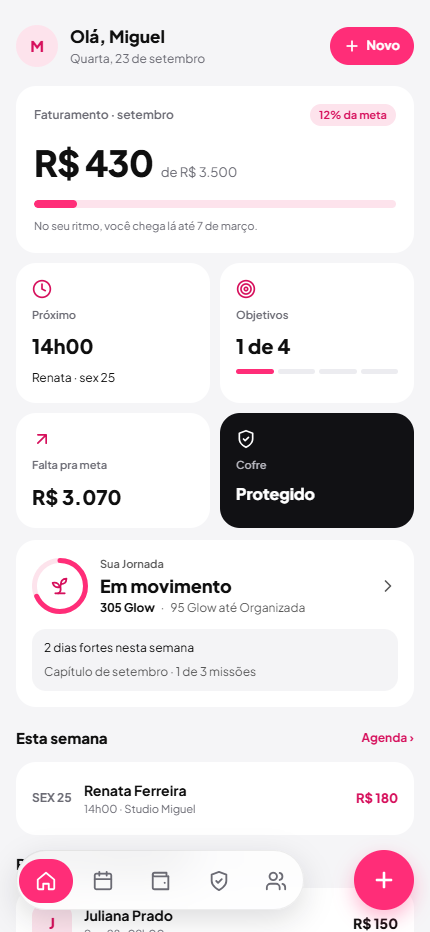
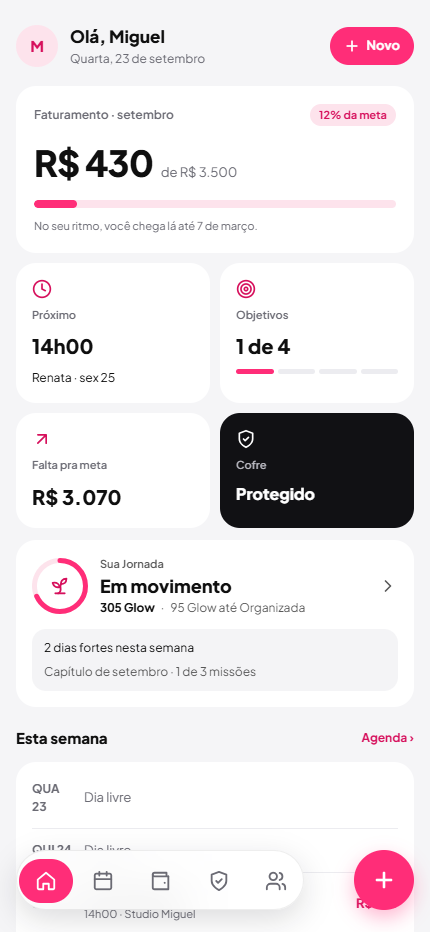
revert(inicio): "Esta semana" volta ao mockup, com "Dia livre"
Decisão do operador na #206: a "Esta semana" mostra os dias de hoje até
domingo como no mockup normativo, com os atendimentos em cada dia e
"Dia livre" nas outras linhas. A linha "Dia livre" é conteúdo do mockup
(SÁB 26), não algo a remover.

Desfaz 5c5b5bf (diasComAtendimentoDaSemana e "Semana livre"); a regra
volta a ser a de antes (diasRestantesDaSemana).

diff --git a/components/home/SemanaSection.tsx b/components/home/SemanaSection.tsx
@@ -5,7 +5,7 @@ import { formatBRL } from "@/lib/finance";
 import type { Job } from "@/lib/types";
 import { InicioCard } from "./InicioCard";
 import {
-  diasComAtendimentoDaSemana,
+  diasRestantesDaSemana,
   formatHora,
   rotuloDiaCurto,
 } from "./inicioAgenda";
@@ -18,13 +18,12 @@ interface Props {
 
 /**
  * Seção "Esta semana" da Início (Jornada J02, mockup
- * `5-telas-8-temas-claro-escuro.html`): de hoje até domingo, só os dias
- * com atendimento, um atendimento por linha. Semana sem nenhum atendimento
- * mostra uma linha "Semana livre". O atalho
+ * `5-telas-8-temas-claro-escuro.html`): de hoje até domingo, um dia por
+ * linha; dia sem atendimento aparece como "Dia livre". O atalho
  * "Agenda ›" leva à aba Agenda.
  */
 export function SemanaSection({ jobs, onGoToAgenda }: Props) {
-  const dias = diasComAtendimentoDaSemana(jobs);
+  const dias = diasRestantesDaSemana(jobs);
   // Valores do mockup normativo (tela Início, "Esta semana").
   const linhaStyle = {
     display: "flex",
@@ -64,13 +63,6 @@ export function SemanaSection({ jobs, onGoToAgenda }: Props) {
       </div>
 
       <InicioCard style={{ padding: "6px 16px" }}>
-        {dias.length === 0 && (
-          <div
-            style={{ ...linhaStyle, fontSize: "13px", color: "var(--t-mut)" }}
-          >
-            Semana livre
-          </div>
-        )}
         {dias.map((dia, i) => {
           const borda = i < dias.length - 1 ? BORDA : undefined;
           const rotulo = (
@@ -86,6 +78,23 @@ export function SemanaSection({ jobs, onGoToAgenda }: Props) {
               {rotuloDiaCurto(dia.data)}
             </span>
           );
+
+          if (dia.jobs.length === 0) {
+            return (
+              <div key={dia.data} style={{ ...linhaStyle, ...borda }}>
+                {rotulo}
+                <div
+                  style={{
+                    flexGrow: 1,
+                    fontSize: "13px",
+                    color: "var(--t-mut)",
+                  }}
+                >
+                  Dia livre
+                </div>
+              </div>
+            );
+          }
 
           return (
             <Fragment key={dia.data}>

diff --git a/tests/wiring/inicio-visual-jornada.test.ts b/tests/wiring/inicio-visual-jornada.test.ts
@@ -4,7 +4,6 @@ import { join } from "node:path";
 import type { Job } from "@/lib/types";
 import {
   atendimentosDepoisDaSemana,
-  diasComAtendimentoDaSemana,
   diasRestantesDaSemana,
   fimDaSemana,
   formatHora,
@@ -104,11 +103,7 @@ describe("J02 — os dois títulos de seção do mockup", () => {
     const src = read("components/home/SemanaSection.tsx");
     expect(src).toMatch(/<h2[^>]*>\s*Esta semana\s*<\/h2>/);
     expect(src).toMatch(/onClick=\{onGoToAgenda\}[\s\S]{0,300}Agenda ›/);
-    // Pixel (decisão do operador): só os dias com atendimento; semana sem
-    // nenhum atendimento mostra "Semana livre".
-    expect(src).toContain("const dias = diasComAtendimentoDaSemana(jobs);");
-    expect(src).toMatch(/dias\.length === 0 && \([\s\S]{0,200}Semana livre/);
-    expect(src).not.toContain("Dia livre");
+    expect(src).toContain("Dia livre");
   });
 
   it('"Próximos atendimentos" é o <h2> de ProximosAtendimentos', () => {
@@ -282,20 +277,6 @@ describe("J02 — inicioAgenda: arranjo dos atendimentos (sem cálculo novo)", (
     const sexta = dias.find((d) => d.data === "2026-09-25")!;
     expect(sexta.jobs.map((j) => j.id)).toEqual(["a", "b"]);
     expect(dias.find((d) => d.data === "2026-09-24")!.jobs).toEqual([]);
-  });
-
-  it("'Esta semana' lista só os dias com atendimento, sem perder nenhum", () => {
-    const jobs = [
-      job({ id: "sex2", data: "2026-09-25", hora: "16:00" }),
-      job({ id: "sex1", data: "2026-09-25", hora: "09:30" }),
-      job({ id: "dom", data: "2026-09-27" }),
-      job({ id: "cancelado", data: "2026-09-24", status: "cancelado" }),
-      job({ id: "depois", data: "2026-09-28" }),
-    ];
-    const dias = diasComAtendimentoDaSemana(jobs, REF);
-    expect(dias.map((d) => d.data)).toEqual(["2026-09-25", "2026-09-27"]);
-    expect(dias[0].jobs.map((j) => j.id)).toEqual(["sex1", "sex2"]);
-    expect(diasComAtendimentoDaSemana([], REF)).toEqual([]);
   });
 
   it("'Próximos atendimentos' começa depois desta semana, em ordem, com limite", () => {

diff --git a/components/home/inicioAgenda.ts b/components/home/inicioAgenda.ts
@@ -81,19 +81,6 @@ export function diasRestantesDaSemana(
   return dias;
 }
 
-/**
- * Só os dias de hoje até domingo que têm atendimento (a "Esta semana" do
- * mockup normativo lista dias com agenda, não a semana inteira). Nenhum
- * atendimento some: são os mesmos dias de `diasRestantesDaSemana`, sem os
- * vazios.
- */
-export function diasComAtendimentoDaSemana(
-  jobs: Job[],
-  ref: Date = new Date()
-): DiaDaSemana[] {
-  return diasRestantesDaSemana(jobs, ref).filter((d) => d.jobs.length > 0);
-}
-
 /** Atendimentos ativos depois desta semana, em ordem, até `limite` (6,
  * como a lista "Próximos atendimentos" do mockup normativo). */
 export function atendimentosDepoisDaSemana(
